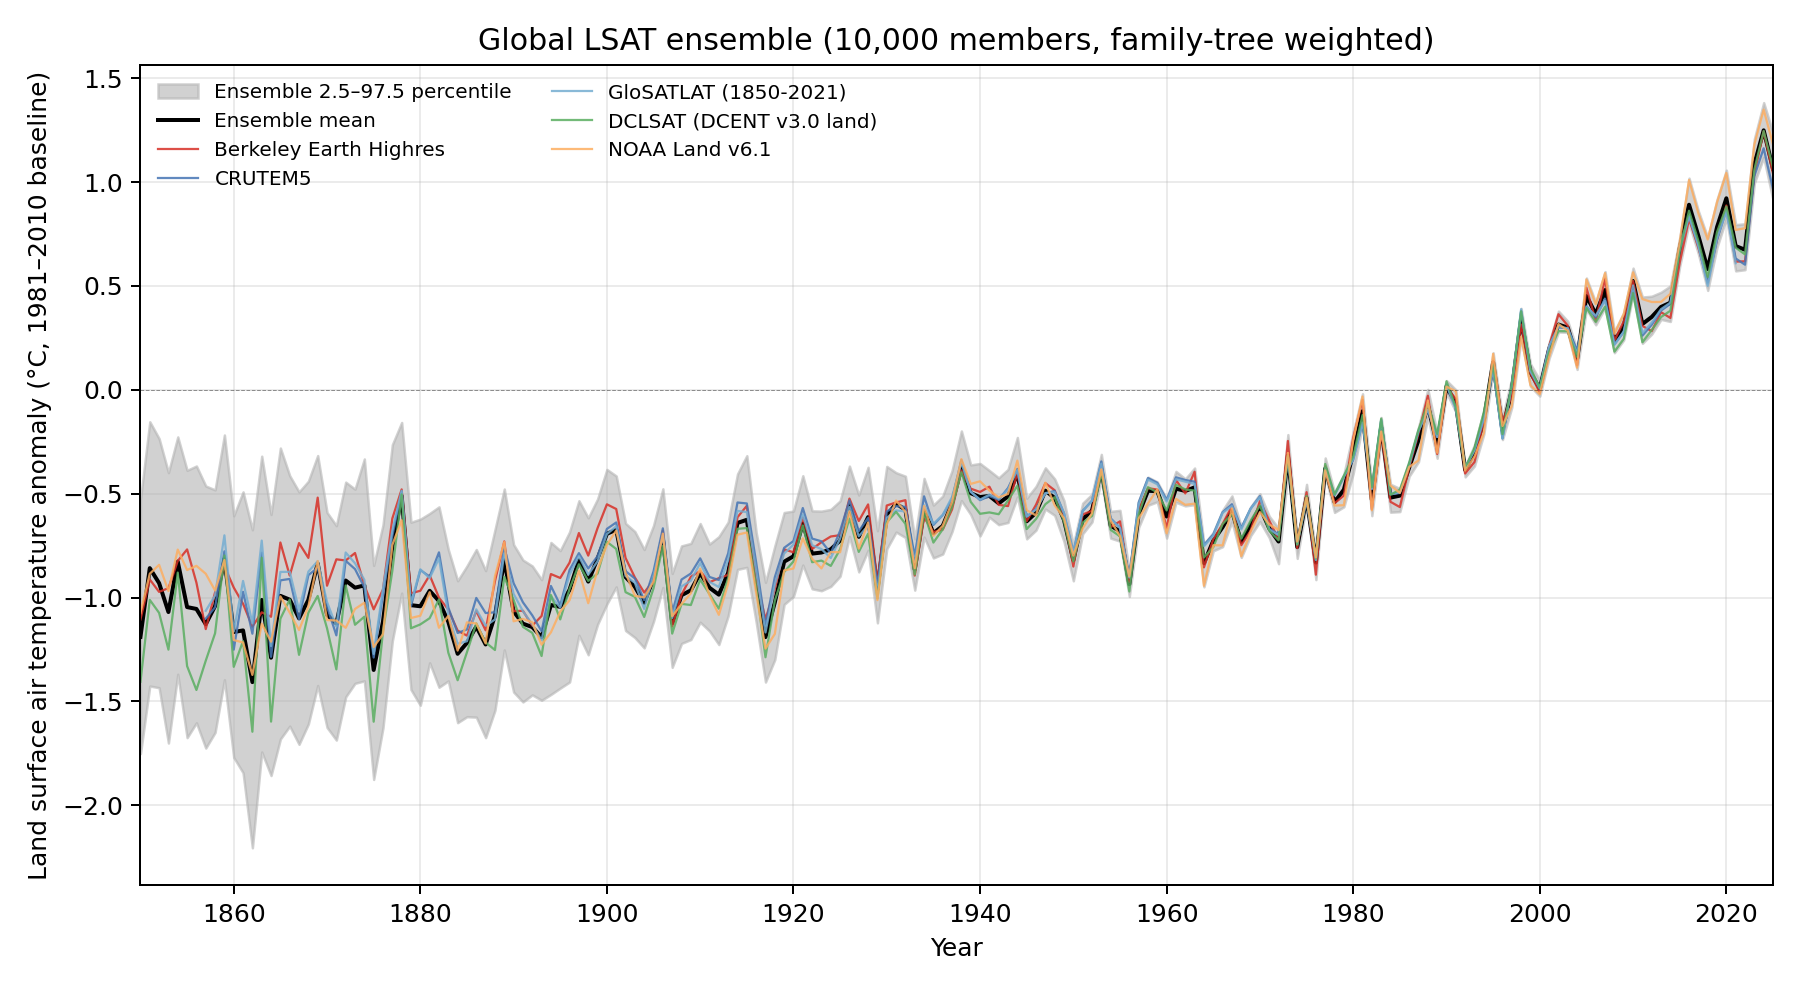
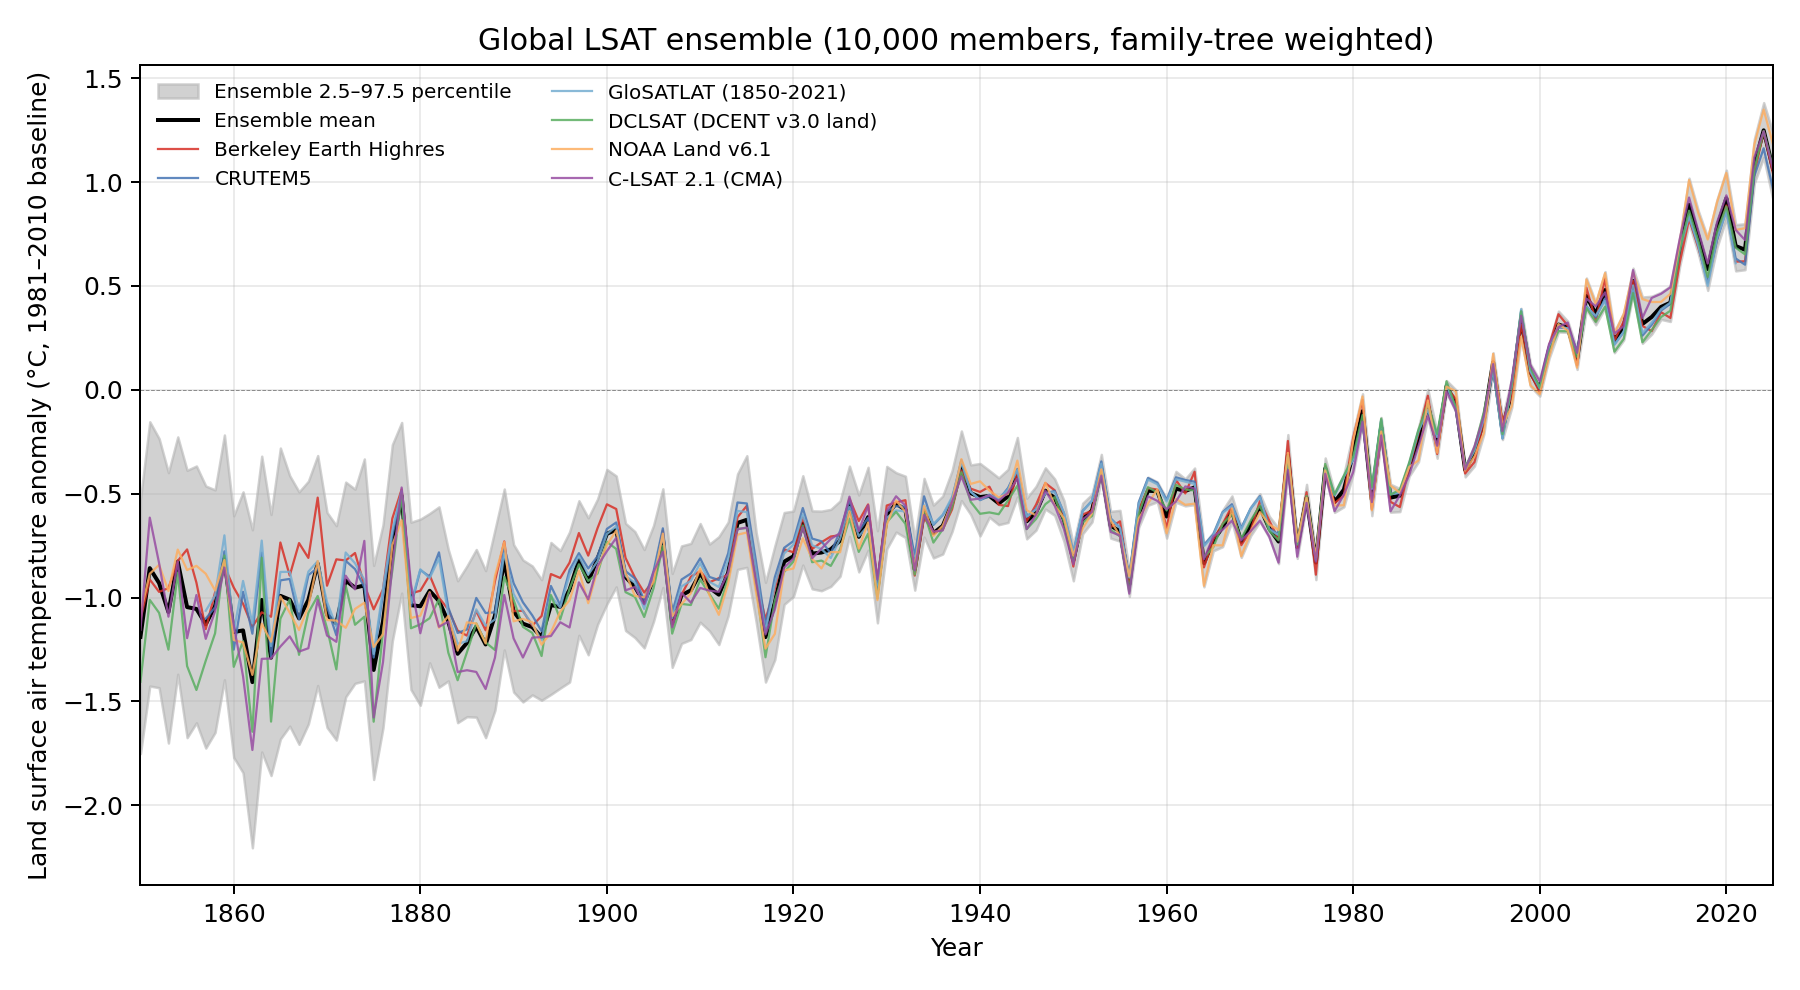
Propagate C-LSAT 2.1 to land_ensemble.png and clean stale 5-LSAT text
- plot_land_ensemble.py: add C-LSAT 2.1 (purple #984ea3) to the
  per-dataset overlay; legend now shows all six LSAT products.
- plot_land_ocean_combined.py: caption "5 LSAT datasets" -> "6".
- build_land_ensemble.py docstring: "five LSAT products" -> "six".
- ocean_ensemble_methodology.md: update the LSAT/SST tree asymmetry
  note (LSAT is now 5 method families at 1/5; SST is still 4 at 1/4;
  CRU-lineage leaves are 1/10 each).

No ensemble re-build; just figure regeneration with the cleaned text
and the new C-LSAT trace.

diff --git a/plot_land_ocean_combined.py b/plot_land_ocean_combined.py
@@ -123,7 +123,7 @@ def main() -> None:
     # Footer annotation
     footer = (
         "Temperature anomalies relative to 1850-1900 average; 5th-95th percentile range computed on 1981-2010 baseline\n"
-        "Land ensemble from 5 LSAT datasets; ocean ensemble from 4 SST datasets (family-tree weighted, 10,000 members each)"
+        "Land ensemble from 6 LSAT datasets; ocean ensemble from 4 SST datasets (family-tree weighted, 10,000 members each)"
     )
     ax.text(0.99, 0.04, footer, transform=ax.transAxes,
             ha="right", va="bottom", fontsize=8, color="0.30",

diff --git a/plot_land_ensemble.py b/plot_land_ensemble.py
@@ -37,6 +37,7 @@ def main() -> None:
         "glosatlat":      "#74add1",
         "dclsat":         "#5aae61",
         "noaa_land":      "#fdae61",
+        "c_lsat":         "#984ea3",
     }
     labels = {
         "berkeley_earth": "Berkeley Earth Highres",
@@ -44,6 +45,7 @@ def main() -> None:
         "glosatlat":      "GloSATLAT (1850-2021)",
         "dclsat":         "DCLSAT (DCENT v3.0 land)",
         "noaa_land":      "NOAA Land v6.1",
+        "c_lsat":         "C-LSAT 2.1 (CMA)",
     }
     for name, color in colors.items():
         ax.plot(

diff --git a/build_land_ensemble.py b/build_land_ensemble.py
@@ -1,6 +1,6 @@
 """
 Build a 10,000-member ensemble of annual global-mean land surface air
-temperature (LSAT) anomaly, 1850-2025, by combining five LSAT products
+temperature (LSAT) anomaly, 1850-2025, by combining six LSAT products
 through a structural-method family tree with donor-imputed uncertainty
 where native ensembles are not available.
 

diff --git a/ocean_ensemble_methodology.md b/ocean_ensemble_methodology.md
@@ -288,14 +288,17 @@ spread = ~37.5% nominally HadSST4-shaped uncertainty, vs. ~75% in v1.
   extend_with_frozen_offset`). Re-pull the native ensemble or replace
   the fallback with a multi-year-capable design before continuing.
 
-**Note on asymmetry with the LSAT tree.** Both the LSAT tree and the
-SST tree use four "method families" (HOMOG/PHA/CRU-lineage/Dynamical
-on the LSAT side; HadSST/ERSST/COBE/Dynamical on the SST side). On
-LSAT the CRU-lineage family splits two ways (CRUTEM5 + GloSATLAT) so
-its leaves carry P=1/8 each; all other LSAT and SST leaves carry
-P=1/4. The result is symmetric for DCLSAT vs DCENT SST (both P=1/4)
-and for the family-level weights. This symmetry should be preserved
-when SST × LSAT are recombined downstream into a GMST ensemble.
+**Note on asymmetry with the LSAT tree.** The LSAT tree uses five
+method families (HOMOG/PHA/CRU-lineage/Dynamical/CMA-homogenization)
+each at P=1/5, while the SST tree uses four (HadSST/ERSST/COBE/Dynamical)
+each at P=1/4. On the LSAT side the CRU-lineage family splits two ways
+(CRUTEM5 + GloSATLAT) so its leaves carry P=1/10 each; all other LSAT
+leaves carry P=1/5. The dynamical-constraint family is the only one
+present on both sides (DCLSAT at P=1/5 on land; DCENT SST at P=1/4 on
+ocean). This asymmetry is intentional — the SST catalogue lacks an
+analogue of the CMA-homogenization family — and should not be
+"corrected" when SST × LSAT are recombined into a GMST ensemble:
+draws should still be independent across sides.
 
 **Planned sensitivity tests (out of scope for v2):**
 - **Half-weight COBE-SST2** (the only remaining donor-imputed leaf:
